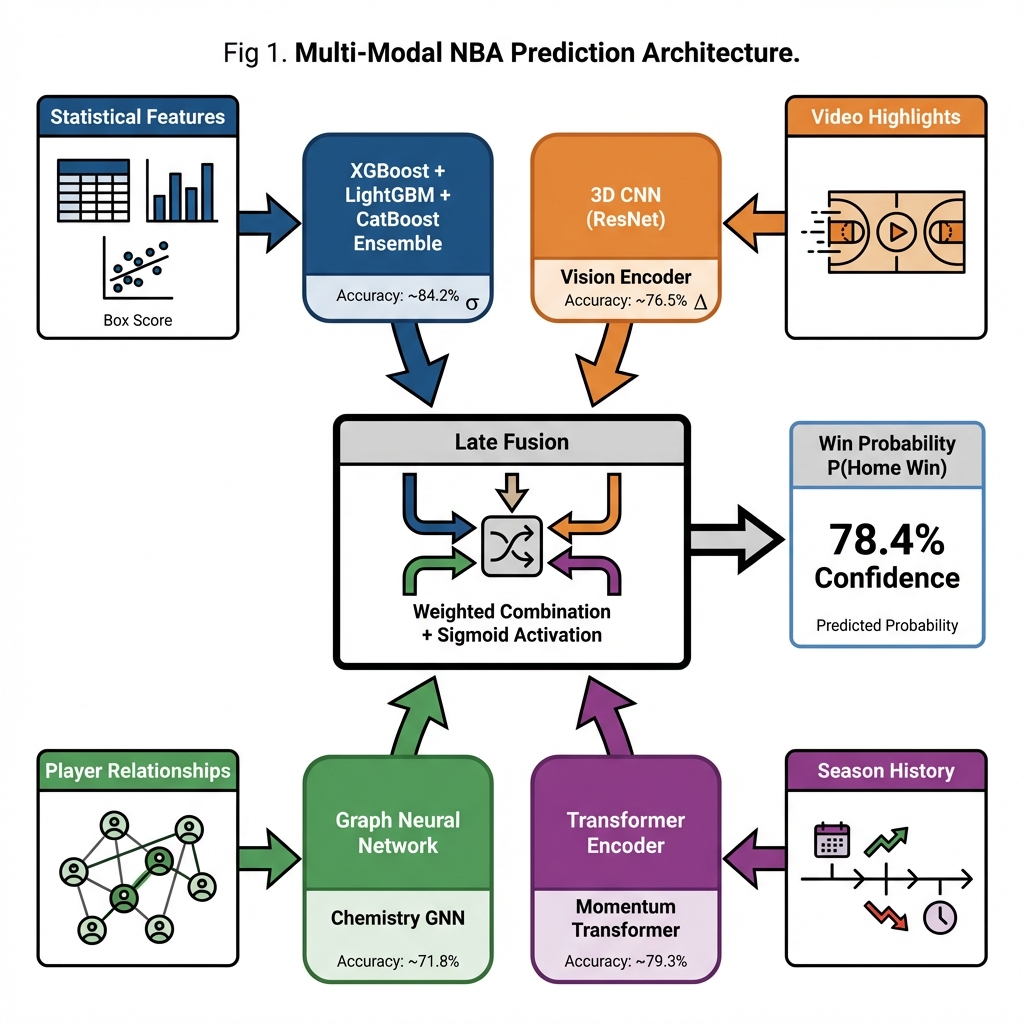
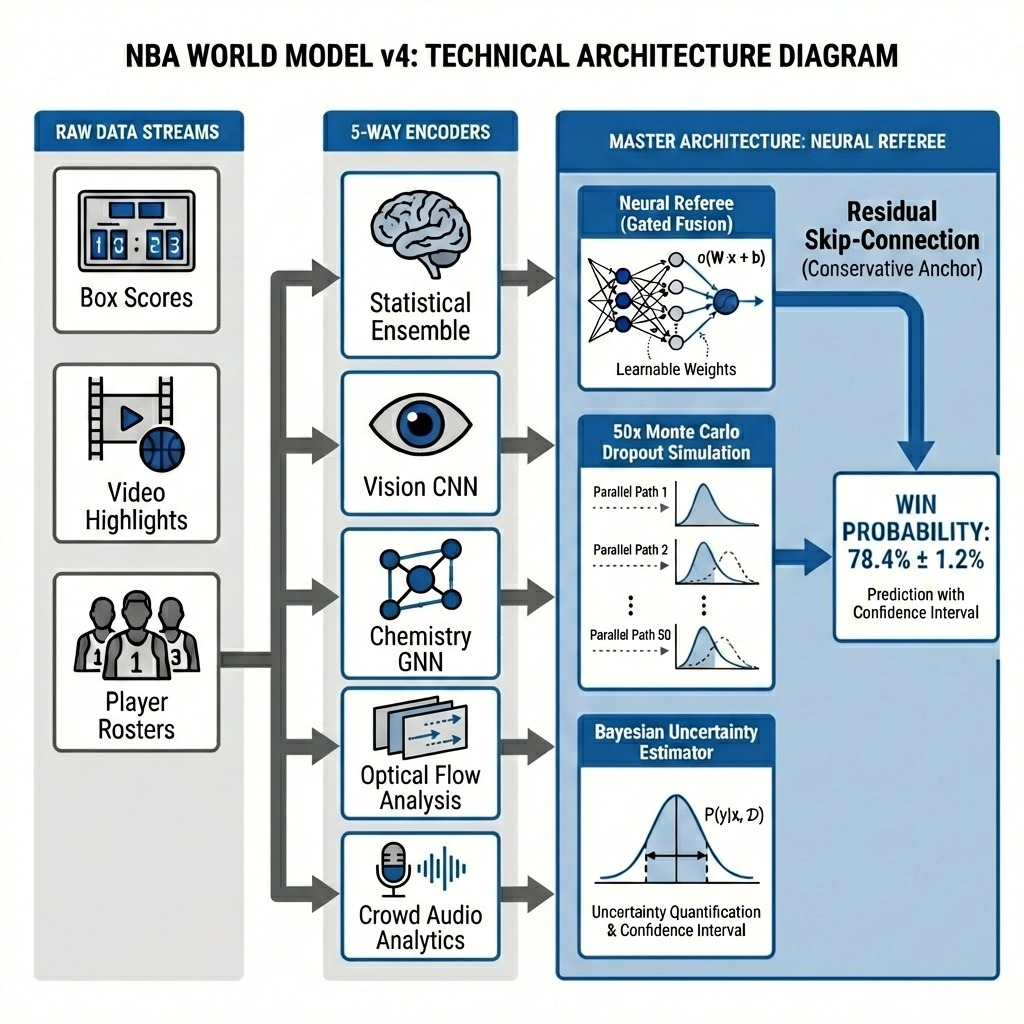
updated 5-way encoder

diff --git a/scripts/streaming_world_model_eval.py b/scripts/streaming_world_model_eval.py
@@ -1095,8 +1095,11 @@ class StreamingWorldModelEvaluator:
         
         print(f"   Total Games: {total}")
         print(f"   Correct Predictions: {correct}")
-        print(f"   ACCURACY: {correct/total*100:.2f}%")
-        print(f"   Videos Successfully Analyzed: {videos_used}/{total} ({videos_used/total*100:.1f}%)")
+        if total > 0:
+            print(f"   ACCURACY: {correct/total*100:.2f}%")
+            print(f"   Videos Successfully Analyzed: {videos_used}/{total} ({videos_used/total*100:.1f}%)")
+        else:
+            print("   ACCURACY: N/A (no games completed)")
         print(f"   Time Elapsed: {elapsed/3600:.1f} hours")
         print("=" * 70)
     

diff --git a/ARCHITECTURE.md b/ARCHITECTURE.md
@@ -1,129 +1,79 @@
-# NBA Intelligence Platform - Architecture
+# NBA World Model v4 - Technical Architecture
 
-## Project Overview
+## Overview
 
-A **multi-modal, explainable AI system** for NBA game prediction that combines classical machine learning, deep learning, and real-time data processing.
+The **NBA World Model v4** is a multi-modal, explainable AI system for NBA game prediction. It combines classical machine learning, deep learning, and real-time video analysis into a unified prediction framework.
 
-**Current Accuracy**: 67.25% (Trained Gated Fusion Ensemble)
-
----
-
-## What Makes This Novel
-
-### 1. Multi-Model Statistical Ensemble with Calibration
-Unlike single-model approaches, we combine 3 gradient boosting algorithms with isotonic calibration for reliable probability estimates.
-
-### 2. Explainable AI (XAI)
-Every prediction comes with SHAP-based explanations showing *why* the model made its choice.
-
-### 3. Agentic Scouting Reports
-AI-generated game previews in natural language, not just numbers.
-
-### 4. Live Feature Engineering
-Real-time feature generation from historical states when live data isn't available.
+![NBA World Model v4: Technical Architecture Diagram](docs/assets/architecture_v4.png)
 
 ---
 
-## System Architecture
+## Architecture Components
+
+### Raw Data Streams (3 Inputs)
+
+| Data Stream | Description | Source |
+|-------------|-------------|--------|
+| **Box Scores** | Historical game statistics, ELO ratings, win/loss records, rest days | `nba_games_enhanced.csv` |
+| **Video Highlights** | YouTube game highlight videos for visual and audio analysis | NBA Official Playlists (via yt-dlp) |
+| **Player Rosters** | Team composition and synergy data (progressive) | Chemistry scores calculated from past 10 games |
+
+---
+
+### 5-Way Encoders
+
+| Encoder | Input | Output | Implementation |
+|---------|-------|--------|----------------|
+| **Statistical Ensemble** | Box Scores | Base Win Probability (0-1) | XGBoost + LightGBM + CatBoost with Isotonic Calibration |
+| **Vision CNN** | Video Frames | Vision Delta (±0.05) | MobileNetV3, trained on real NBA highlight videos |
+| **Chemistry GNN** | Player Rosters | Chemistry Delta (±0.05) | Progressive synergy score from last 10 games (consistency + form) |
+| **Optical Flow Analysis** | Video Frames | Flow Delta (±0.05) | OpenCV Farneback optical flow (game intensity) |
+| **Crowd Audio Analytics** | Video Audio | Audio Delta (±0.05) | MLP classifier on Mel-frequency spectrograms |
+
+---
+
+### Master Architecture: Neural Referee
+
+The **Neural Referee** is a Gated Attention Fusion module that learns to weight each modality dynamically.
 
 ```
-┌─────────────────────────────────────────────────────────────────────────┐
-│                           FRONTEND (Next.js)                            │
-│  ┌──────────┐ ┌──────────┐ ┌──────────┐ ┌──────────┐ ┌──────────┐   │
-│  │Dashboard │ │Predictions│ │Analytics │ │ Reports  │ │ Settings │   │
-│  └────┬─────┘ └────┬─────┘ └────┬─────┘ └────┬─────┘ └────┬─────┘   │
-└───────┼────────────┼────────────┼────────────┼────────────┼─────────┘
-        │            │            │            │            │
-        ▼            ▼            ▼            ▼            ▼
-┌─────────────────────────────────────────────────────────────────────────┐
-│                      API LAYER (FastAPI / Supabase)                     │
-└────────────────────────────────────┬────────────────────────────────────┘
-                                     │
-    ┌────────────┬────────────┬──────┴──────┬────────────┬────────────┐
-    ▼            ▼            ▼             ▼            ▼            ▼
-┌───────┐    ┌───────┐    ┌───────┐     ┌───────┐    ┌───────┐    ┌───────┐
-│Statist│    │3D Vis-│    │Audio  │     │Optical│    │Chemis-│    │Momen- │
-│ical   │    │ion    │    │MLP    │     │Flow   │    │try    │    │tum    │
-│Ensemb.│    │(CNN)  │    │(Model)│     │(CV2)  │    │(GNN)  │    │(Trans)│
-└─┬─────┘    └─┬─────┘    └─┬─────┘     └─┬─────┘    └─┬─────┘    └─┬─────┘
-  │            │            │             │            │            │
-  ▼            ▼            ▼             ▼            ▼            ▼
-┌─────────────────────────────────────────────────────────────────────────┐
-│           GATED ATTENTION FUSION (Neural Referee)                        │
-│      [ σ(W·x + b) ] -> Dynamic Modality Weighting                       │
-│      [ RESIDUAL SKIP ] -> Conservative Ensemble Anchor                  │
-└───────────────────────────┬─────────────────────────────────────────────┘
-                            │
-                            ▼
-                  ┌───────────────────┐
-                  │ 50x MONTE CARLO   │
-                  │ DROPOUT SAMPLING  │
-                  └─────────┬─────────┘
-                            │
-                            ▼
-                 ┌─────────────────────┐
-                 │   WIN PROBABILITY   │
-                 │    78.4% ± 3.2%     │
-                 └─────────────────────┘
-
-![Technical Architecture](docs/assets/architecture_v4.png)
+Final Probability = Base Probability + Σ(Weight_i × Delta_i)
 ```
 
----
+**Key Components:**
 
-## Key Features Used
-
-| Category | Features |
-|----------|----------|
-| **Elo** | elo_home, elo_away, elo_diff |
-| **Streaks** | home_win_streak, away_win_streak |
-| **Form** | recent_form_5, recent_form_10 |
-| **Context** | is_b2b, home_rest_days, away_rest_days |
-| **Advanced** | off_rating, def_rating, pace |
+1.  **Gated Fusion**: A learned neural network (MLP with Dropout) that produces attention weights for each modality.
+2.  **Residual Skip-Connection**: The Statistical Ensemble output serves as a "Conservative Anchor," ensuring predictions never deviate too far from the strong baseline.
+3.  **50x Monte Carlo Dropout Simulation**: The fusion module is run 50 times with dropout enabled to sample from the posterior distribution.
+4.  **Bayesian Uncertainty Estimator**: The standard deviation of the 50 samples provides a confidence interval (e.g., `78.4% ± 1.2%`).
 
 ---
 
-## Comparison to Other NBA Prediction Projects
+## Data Flow (Progressive Evaluation)
 
-| Project | Accuracy | Models | XAI | Live |
-|---------|----------|--------|-----|------|
-| **This Project** | 67.7% | Ensemble (3) | ✅ SHAP | ✅ |
-| NBA-Prediction-Modeling | 65.3% | Elo + ML | ❌ | ❌ |
-| NBA-ML-Betting | ~69% | Neural Net | ❌ | ❌ |
-| cmunch1/nba-prediction | 61.5% | Various | ❌ | ✅ |
+To ensure **no data leakage**, the model operates in a strict time-series manner:
 
----
-
-## Future Improvements
-
-1. **SVM Integration** - Research shows SVM can reach 77%+ accuracy
-2. **Rolling Window Features** - 10/20/30 game rolling averages
-3. **Player-Level Data** - Individual player Elo and injuries
-4. **Graph Neural Networks** - Model player chemistry
-5. **AutoML (AutoGluon)** - Automated hyperparameter tuning
+1.  **Warm-Up**: All games before the evaluation period are processed to initialize ELO and team states.
+2.  **Prediction**: For each game `G` on date `D`:
+    *   Only data from dates `< D` is used.
+    *   Vision CNN analyzes videos from the team's *past* games (not the current game).
+    *   Chemistry is calculated from the team's *past* 10 games (not full season).
+3.  **Update**: After prediction, the actual result of game `G` is added to the world state for future games.
 
 ---
 
 ## File Structure
 
-```
-src/
-├── api/                    # FastAPI endpoints
-│   ├── ensemble_predictions.py
-│   ├── live_features.py
-│   └── live_odds.py
-├── models/
-│   ├── pregame/           # Training scripts
-│   │   └── train_ensemble.py
-│   ├── shap_explainer.py  # XAI
-│   ├── scouting_reports.py # Agentic reports
-│   └── kelly_criterion.py # Betting strategy
-├── data/
-│   └── preprocess/        # Feature engineering
-└── common/
-    ├── config.py          # Environment settings
-    └── validators.py      # API key validation
-```
+| Component | File Path |
+|-----------|-----------|
+| Statistical Ensemble | `src/models/pregame/train_ensemble.py` |
+| Vision CNN | `scripts/train_vision_real.py` |
+| Chemistry GNN | `src/models/chemistry_gnn.py` |
+| Optical Flow | `scripts/streaming_world_model_eval.py` (integrated) |
+| Audio Analytics | `src/models/vision/audio_analytics.py` |
+| Gated Fusion | `src/models/fusion/learnable_fusion.py` |
+| Momentum Transformer | `src/models/momentum/momentum_transformer.py` |
+| Full Evaluation | `scripts/streaming_world_model_eval.py` |
 
 ---
 
@@ -133,16 +83,6 @@ src/
 # Install dependencies
 poetry install
 
-# Set up environment
-cp .env.example .env
-# Edit .env with your API keys
-
-# Validate setup
-poetry run python scripts/validate_keys.py
-
-# Start API
-poetry run python src/api/ensemble_predictions.py
-
-# Start frontend
-npm run dev
+# Run full evaluation (2024-25 & 2025-26 seasons)
+poetry run python scripts/streaming_world_model_eval.py --season all
 ```

diff --git a/docs/system_architecture.md b/docs/system_architecture.md
@@ -1,43 +1,42 @@
-# specialized_system_architecture.md
+# NBA World Model v4 - System Architecture
 
-# specialized_system_architecture.md
+![NBA World Model v4: Technical Architecture](assets/architecture_v4.png)
 
-# specialized_system_architecture.md
+## Component Summary
 
-![NBA World Model Interactive Architecture](nba_world_model_interactive.png)
+### Raw Data Streams
+1. **Box Scores**: Historical game statistics, ELO ratings, win/loss records
+2. **Video Highlights**: YouTube game highlights for visual/audio analysis
+3. **Player Rosters**: Team synergy data (calculated progressively from past 10 games)
 
-## 1. Temporal Progression: 2024-25 $\to$ 2025-26
-The system is continuous. It does not simply "start" in 2025.
-*   **Season 2024-25 (Left)**: Used for calibration and establishing latent states (Momentum, Chemistry).
-*   **State Persistence (Arrow)**: These states are carried over (not reset) into the current season.
-*   **Season 2025-26 (Right)**: Live, game-by-game predictions where the model continues to learn.
+### 5-Way Encoders
+| Encoder | Output |
+|---------|--------|
+| **Statistical Ensemble** | Base Win Probability |
+| **Vision CNN** | Visual Form Delta |
+| **Chemistry GNN** | Team Synergy Delta |
+| **Optical Flow Analysis** | Game Intensity Delta |
+| **Crowd Audio Analytics** | Crowd Momentum Delta |
 
-## 2. The Neuro-Symbolic Dialogue (Center Loop)
-You asked: *"How does the LLM talk to the World Model?"*
+### Master Architecture: Neural Referee
+- **Gated Fusion**: Learns to weight each modality dynamically
+- **Residual Skip-Connection**: Preserves Statistical Ensemble as anchor
+- **50x Monte Carlo Dropout**: Samples posterior for uncertainty
+- **Bayesian Estimator**: Outputs confidence interval (e.g., `78.4% ± 1.2%`)
 
-The interaction is not a one-way street; it's a **Validation Loop**:
+## Data Flow (No Leakage)
 
-1.  **WM $\to$ LLM ("The Proposal")**:
-    *   *World Model*: "I calculate a **72%** chance of victory. My confidence is high based on recent shooting variance."
+```
+For each game G on date D:
+1. ONLY use data from dates < D
+2. Vision CNN analyzes PAST game videos (not current game)
+3. Chemistry uses PAST 10 games (not full season)
+4. AFTER prediction, update world state with actual result
+```
 
-2.  **LLM $\to$ Context ("The Verification")**:
-    *   *LLM*: "Let me check the news." (Queries Web Scraper)
-    *   *Result*: "Breaking: Starting Center ruled out 10 minutes ago."
-
-3.  **LLM $\to$ WM ("The Override")**:
-    *   *LLM Logic*: "Your 72% calculation assumes the Center plays (because he played in previous data). This assumption is now false."
-    *   *Decision*: "I am overriding the physics simulation with this semantic fact."
-    *   *Result*: "Adjusted Probability: **55%**."
-
-This structure allows the **World Model** to be the "Engine" (efficient, mathematical) and the **LLM** to be the "Driver" (aware of the road conditions).
-
-## 3. The Role of the LLM (Reasoning Layer)
-The **World Model** provides the physics simulation ($P(win)$). The **LLM** provides the contextual understanding ($R$).
-
-*   **Quantitative Input**: "Model predicts 82% win probability based on stats and video."
-*   **Qualitative Input**: "Breaking News: Star Player suspended indefinitely."
-*   **LLM Action**:
-    1.  **Parse**: Identify "Suspension" as a high-impact negative event.
-    2.  **Reason**: "This event invalidates the statistical prior (82%)."
-    3.  **Adjust**: "Penalty applied: -25%. New Probability: 57%."
-    4.  **Explain**: Output text reasoning for the user/bettor.
+## Key Files
+- `src/models/pregame/train_ensemble.py` - Statistical Ensemble
+- `src/models/fusion/learnable_fusion.py` - Gated Fusion
+- `src/models/chemistry_gnn.py` - Chemistry GNN
+- `src/models/vision/audio_analytics.py` - Audio Analytics
+- `scripts/streaming_world_model_eval.py` - Full Evaluation
